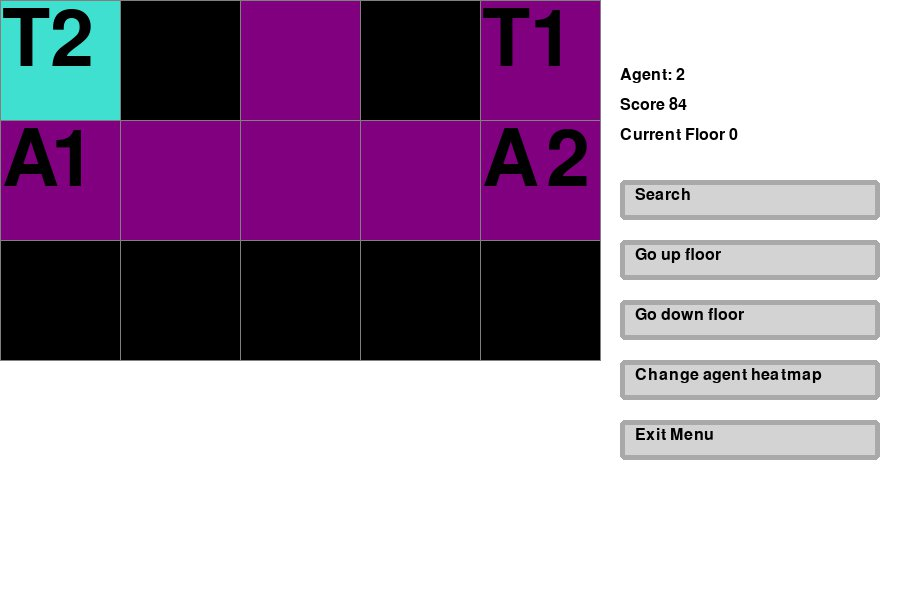
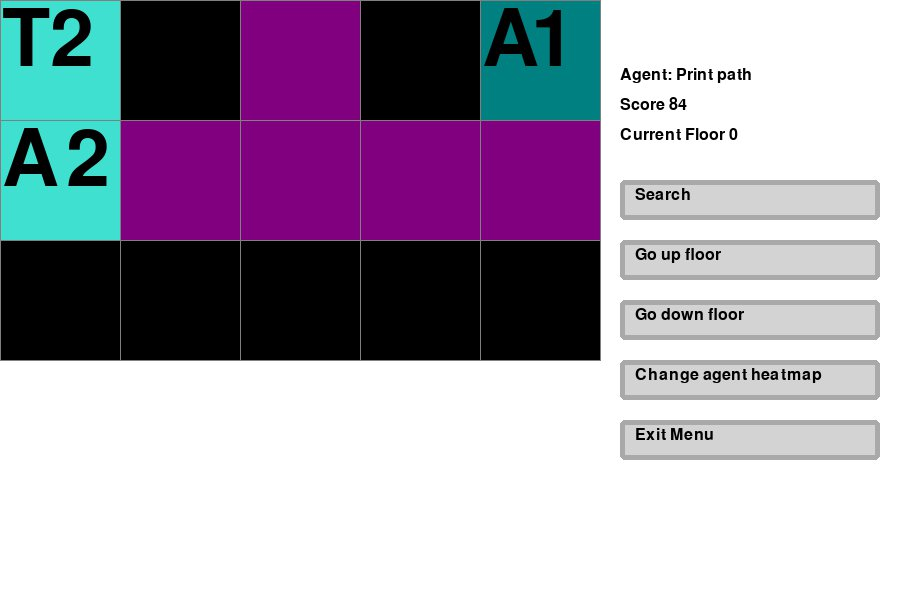
update images save

Changed region(s): [[0.5289, 0.0, 0.6844, 0.33], [0.0, 0.18, 0.1556, 0.42], [0.7467, 0.12, 0.84, 0.15]]

diff --git a/level4/__init__.py b/level4/__init__.py
@@ -376,11 +376,18 @@ def visual_path(path):
                 Visualizer.agent_visual[int(agent.start[1:])][agent.cell()[2] - 1][agent.cell()[0]][
                     agent.cell()[1]].make_visited()
             Visualizer.visual_grid[node.agents[i].cell()[2] - 1][node.agents[i].cell()[0]][
-                node.agents[i].cell()[1]].make_path()
+                node.agents[i].cell()[1]].make_agent(node.agents[i].start)
             draw(WIN, Visualizer.visual_grid[node.agents[i].cell()[2] - 1], Boundary.N, Boundary.M, WIDTH,
                  Visualizer.grid_start_x,
                  Visualizer.grid_start_y)
+            pygame.time.delay(100)
             pygame.display.update()
+        for i in range(Anode.n):
+            if node != path[-1]:
+                Visualizer.visual_grid[node.agents[i].cell()[2] - 1][node.agents[i].cell()[0]][
+                    node.agents[i].cell()[1]].make_path()
+                Visualizer.visual_grid[node.agents[i].cell()[2] - 1][node.agents[i].cell()[0]][
+                    node.agents[i].cell()[1]].name = ''
         pygame.time.wait(100)
     num_agent = len(path[0].agents)
     len_path = len(path)
